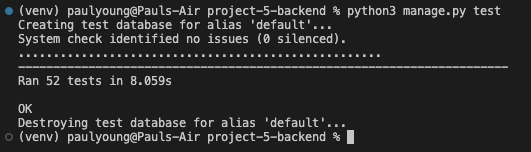
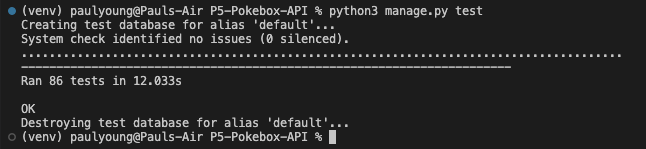
Document new automated tests

diff --git a/news/tests.py b/news/tests.py
@@ -116,7 +116,7 @@ class NewsDetailTests(APITestCase):
         response = self.client.get("/news/1")
         self.assertEqual(response.status_code, status.HTTP_200_OK)
 
-    def test_no_user_edit(self):
+    def test_no_user_cant_edit(self):
         response = self.client.patch("/news/1", {"body": "updated body"})
         self.assertEqual(response.status_code, status.HTTP_403_FORBIDDEN)
 
@@ -205,7 +205,7 @@ class AnnouncementDetailTests(APITestCase):
         response = self.client.get("/announcements/1")
         self.assertEqual(response.status_code, status.HTTP_200_OK)
 
-    def test_no_user_edit(self):
+    def test_no_user_cant_edit(self):
         response = self.client.patch(
             "/announcements/1", {"body": "updated announcements"})
         self.assertEqual(response.status_code, status.HTTP_403_FORBIDDEN)

diff --git a/TESTING.md b/TESTING.md
@@ -12,37 +12,43 @@
 
 All python files with code written by myself were run through the CI Python Linter. These are the results:
 
-| File                        | Result | Notes                      | Screenshot                                                                                                                         |
-| --------------------------- | ------ | -------------------------- | ---------------------------------------------------------------------------------------------------------------------------------- |
-| [comments/admin.py]()       | ✓      | All clear, no errors found | [Screenshot](https://raw.githubusercontent.com/paulio11/P5-Pokebox-API/main/documentation/images/testing-comments-admin.png)       |
-| [comments/models.py]()      | ✓      | All clear, no errors found | [Screenshot](https://raw.githubusercontent.com/paulio11/P5-Pokebox-API/main/documentation/images/testing-comments-models.png)      |
-| [comments/serializers.py]() | ✓      | All clear, no errors found | [Screenshot](https://raw.githubusercontent.com/paulio11/P5-Pokebox-API/main/documentation/images/testing-comments-serializers.png) |
-| [comments/tests.py]()       | ✓      | All clear, no errors found | [Screenshot](https://raw.githubusercontent.com/paulio11/P5-Pokebox-API/main/documentation/images/testing-comments-tests.png)       |
-| [comments/urls.py]()        | ✓      | All clear, no errors found | [Screenshot](https://raw.githubusercontent.com/paulio11/P5-Pokebox-API/main/documentation/images/testing-comments-urls.png)        |
-| [comments/views.py]()       | ✓      | All clear, no errors found | [Screenshot](https://raw.githubusercontent.com/paulio11/P5-Pokebox-API/main/documentation/images/testing-comments-views.png)       |
-| [likes/admin.py]()          | ✓      | All clear, no errors found | [Screenshot](https://raw.githubusercontent.com/paulio11/P5-Pokebox-API/main/documentation/images/testing-likes-admin.png)          |
-| [likes/models.py]()         | ✓      | All clear, no errors found | [Screenshot](https://raw.githubusercontent.com/paulio11/P5-Pokebox-API/main/documentation/images/testing-likes-models.png)         |
-| [likes/serializers.py]()    | ✓      | All clear, no errors found | [Screenshot](https://raw.githubusercontent.com/paulio11/P5-Pokebox-API/main/documentation/images/testing-likes-serializers.png)    |
-| [likes/tests.py]()          | ✓      | All clear, no errors found | [Screenshot](https://raw.githubusercontent.com/paulio11/P5-Pokebox-API/main/documentation/images/testing-likes-tests.png)          |
-| [likes/urls.py]()           | ✓      | All clear, no errors found | [Screenshot](https://raw.githubusercontent.com/paulio11/P5-Pokebox-API/main/documentation/images/testing-likes-urls.png)           |
-| [likes/views.py]()          | ✓      | All clear, no errors found | [Screenshot](https://raw.githubusercontent.com/paulio11/P5-Pokebox-API/main/documentation/images/testing-likes-views.png)          |
-| [pokebox/permissions.py]()  | ✓      | All clear, no errors found | [Screenshot](https://raw.githubusercontent.com/paulio11/P5-Pokebox-API/main/documentation/images/testing-pokebox-permissions.png)  |
-| [pokebox/serializers.py]()  | ✓      | All clear, no errors found | [Screenshot](https://raw.githubusercontent.com/paulio11/P5-Pokebox-API/main/documentation/images/testing-pokebox-serializers.png)  |
-| [pokebox/tests.py]()        | ✓      | All clear, no errors found | [Screenshot](https://raw.githubusercontent.com/paulio11/P5-Pokebox-API/main/documentation/images/testing-pokebox-tests.png)        |
-| [pokebox/urls.py]()         | ✓      | All clear, no errors found | [Screenshot](https://raw.githubusercontent.com/paulio11/P5-Pokebox-API/main/documentation/images/testing-pokebox-urls.png)         |
-| [pokebox/views.py]()        | ✓      | All clear, no errors found | [Screenshot](https://raw.githubusercontent.com/paulio11/P5-Pokebox-API/main/documentation/images/testing-pokebox-views.png)        |
-| [posts/admin.py]()          | ✓      | All clear, no errors found | [Screenshot](https://raw.githubusercontent.com/paulio11/P5-Pokebox-API/main/documentation/images/testing-posts-admin.png)          |
-| [posts/models.py]()         | ✓      | All clear, no errors found | [Screenshot](https://raw.githubusercontent.com/paulio11/P5-Pokebox-API/main/documentation/images/testing-posts-models.png)         |
-| [posts/serializers.py]()    | ✓      | All clear, no errors found | [Screenshot](https://raw.githubusercontent.com/paulio11/P5-Pokebox-API/main/documentation/images/testing-posts-serializers.png)    |
-| [posts/tests.py]()          | ✓      | All clear, no errors found | [Screenshot](https://raw.githubusercontent.com/paulio11/P5-Pokebox-API/main/documentation/images/testing-posts-tests.png)          |
-| [posts/urls.py]()           | ✓      | All clear, no errors found | [Screenshot](https://raw.githubusercontent.com/paulio11/P5-Pokebox-API/main/documentation/images/testing-posts-urls.png)           |
-| [posts/views.py]()          | ✓      | All clear, no errors found | [Screenshot](https://raw.githubusercontent.com/paulio11/P5-Pokebox-API/main/documentation/images/testing-posts-views.png)          |
-| [profiles/admin.py]()       | ✓      | All clear, no errors found | [Screenshot](https://raw.githubusercontent.com/paulio11/P5-Pokebox-API/main/documentation/images/testing-profiles-admin.png)       |
-| [profiles/models.py]()      | ✓      | All clear, no errors found | [Screenshot](https://raw.githubusercontent.com/paulio11/P5-Pokebox-API/main/documentation/images/testing-profiles-models.png)      |
-| [profiles/serializers.py]() | ✓      | All clear, no errors found | [Screenshot](https://raw.githubusercontent.com/paulio11/P5-Pokebox-API/main/documentation/images/testing-profiles-serializers.png) |
-| [profiles/tests.py]()       | ✓      | All clear, no errors found | [Screenshot](https://raw.githubusercontent.com/paulio11/P5-Pokebox-API/main/documentation/images/testing-profiles-tests.png)       |
-| [profiles/urls.py]()        | ✓      | All clear, no errors found | [Screenshot](https://raw.githubusercontent.com/paulio11/P5-Pokebox-API/main/documentation/images/testing-profiles-urls.png)        |
-| [profiles/views.py]()       | ✓      | All clear, no errors found | [Screenshot](https://raw.githubusercontent.com/paulio11/P5-Pokebox-API/main/documentation/images/testing-profiles-views.png)       |
+| File                                                                                                    | Result | Notes                      | Screenshot                                                                                                                         |
+| ------------------------------------------------------------------------------------------------------- | ------ | -------------------------- | ---------------------------------------------------------------------------------------------------------------------------------- |
+| [comments/admin.py](https://github.com/paulio11/P5-Pokebox-API/blob/main/comments/admin.py)             | ✓      | All clear, no errors found | [Screenshot](https://raw.githubusercontent.com/paulio11/P5-Pokebox-API/main/documentation/images/testing-comments-admin.png)       |
+| [comments/models.py](https://github.com/paulio11/P5-Pokebox-API/blob/main/comments/models.py)           | ✓      | All clear, no errors found | [Screenshot](https://raw.githubusercontent.com/paulio11/P5-Pokebox-API/main/documentation/images/testing-comments-models.png)      |
+| [comments/serializers.py](https://github.com/paulio11/P5-Pokebox-API/blob/main/comments/serializers.py) | ✓      | All clear, no errors found | [Screenshot](https://raw.githubusercontent.com/paulio11/P5-Pokebox-API/main/documentation/images/testing-comments-serializers.png) |
+| [comments/tests.py](https://github.com/paulio11/P5-Pokebox-API/blob/main/comments/tests.py)             | ✓      | All clear, no errors found | [Screenshot](https://raw.githubusercontent.com/paulio11/P5-Pokebox-API/main/documentation/images/testing-comments-tests.png)       |
+| [comments/urls.py](https://github.com/paulio11/P5-Pokebox-API/blob/main/comments/urls.py)               | ✓      | All clear, no errors found | [Screenshot](https://raw.githubusercontent.com/paulio11/P5-Pokebox-API/main/documentation/images/testing-comments-urls.png)        |
+| [comments/views.py](https://github.com/paulio11/P5-Pokebox-API/blob/main/comments/views.py)             | ✓      | All clear, no errors found | [Screenshot](https://raw.githubusercontent.com/paulio11/P5-Pokebox-API/main/documentation/images/testing-comments-views.png)       |
+| [likes/admin.py](https://github.com/paulio11/P5-Pokebox-API/blob/main/likes/admin.py)                   | ✓      | All clear, no errors found | [Screenshot](https://raw.githubusercontent.com/paulio11/P5-Pokebox-API/main/documentation/images/testing-likes-admin.png)          |
+| [likes/models.py](https://github.com/paulio11/P5-Pokebox-API/blob/main/likes/models.py)                 | ✓      | All clear, no errors found | [Screenshot](https://raw.githubusercontent.com/paulio11/P5-Pokebox-API/main/documentation/images/testing-likes-models.png)         |
+| [likes/serializers.py](https://github.com/paulio11/P5-Pokebox-API/blob/main/likes/serializers.py)       | ✓      | All clear, no errors found | [Screenshot](https://raw.githubusercontent.com/paulio11/P5-Pokebox-API/main/documentation/images/testing-likes-serializers.png)    |
+| [likes/tests.py](https://github.com/paulio11/P5-Pokebox-API/blob/main/likes/tests.py)                   | ✓      | All clear, no errors found | [Screenshot](https://raw.githubusercontent.com/paulio11/P5-Pokebox-API/main/documentation/images/testing-likes-tests.png)          |
+| [likes/urls.py](https://github.com/paulio11/P5-Pokebox-API/blob/main/likes/urls.py)                     | ✓      | All clear, no errors found | [Screenshot](https://raw.githubusercontent.com/paulio11/P5-Pokebox-API/main/documentation/images/testing-likes-urls.png)           |
+| [likes/views.py](https://github.com/paulio11/P5-Pokebox-API/blob/main/likes/views.py)                   | ✓      | All clear, no errors found | [Screenshot](https://raw.githubusercontent.com/paulio11/P5-Pokebox-API/main/documentation/images/testing-likes-views.png)          |
+| [news/admin.py](https://github.com/paulio11/P5-Pokebox-API/blob/main/news/admin.py)                     | ✓      | All clear, no errors found | [Screenshot](https://raw.githubusercontent.com/paulio11/P5-Pokebox-API/main/documentation/images/testing-news-admin.png)           |
+| [news/models.py](https://github.com/paulio11/P5-Pokebox-API/blob/main/news/models.py)                   | ✓      | All clear, no errors found | [Screenshot](https://raw.githubusercontent.com/paulio11/P5-Pokebox-API/main/documentation/images/testing-news-models.png)          |
+| [news/serializers.py](https://github.com/paulio11/P5-Pokebox-API/blob/main/news/serializers.py)         | ✓      | All clear, no errors found | [Screenshot](https://raw.githubusercontent.com/paulio11/P5-Pokebox-API/main/documentation/images/testing-news-serializers.png)     |
+| [news/tests.py](https://github.com/paulio11/P5-Pokebox-API/blob/main/news/tests.py)                     | ✓      | All clear, no errors found | [Screenshot](https://raw.githubusercontent.com/paulio11/P5-Pokebox-API/main/documentation/images/testing-news-tests.png)           |
+| [news/urls.py](https://github.com/paulio11/P5-Pokebox-API/blob/main/news/urls.py)                       | ✓      | All clear, no errors found | [Screenshot](https://raw.githubusercontent.com/paulio11/P5-Pokebox-API/main/documentation/images/testing-news-urls.png)            |
+| [news/views.py](https://github.com/paulio11/P5-Pokebox-API/blob/main/news/views.py)                     | ✓      | All clear, no errors found | [Screenshot](https://raw.githubusercontent.com/paulio11/P5-Pokebox-API/main/documentation/images/testing-news-views.png)           |
+| [pokebox/permissions.py](https://github.com/paulio11/P5-Pokebox-API/blob/main/pokebox/permissions.py)   | ✓      | All clear, no errors found | [Screenshot](https://raw.githubusercontent.com/paulio11/P5-Pokebox-API/main/documentation/images/testing-pokebox-permissions.png)  |
+| [pokebox/serializers.py](https://github.com/paulio11/P5-Pokebox-API/blob/main/pokebox/serializers.py)   | ✓      | All clear, no errors found | [Screenshot](https://raw.githubusercontent.com/paulio11/P5-Pokebox-API/main/documentation/images/testing-pokebox-serializers.png)  |
+| [pokebox/tests.py](https://github.com/paulio11/P5-Pokebox-API/blob/main/pokebox/tests.py)               | ✓      | All clear, no errors found | [Screenshot](https://raw.githubusercontent.com/paulio11/P5-Pokebox-API/main/documentation/images/testing-pokebox-tests.png)        |
+| [pokebox/urls.py](https://github.com/paulio11/P5-Pokebox-API/blob/main/pokebox/urls.py)                 | ✓      | All clear, no errors found | [Screenshot](https://raw.githubusercontent.com/paulio11/P5-Pokebox-API/main/documentation/images/testing-pokebox-urls.png)         |
+| [pokebox/views.py](https://github.com/paulio11/P5-Pokebox-API/blob/main/pokebox/views.py)               | ✓      | All clear, no errors found | [Screenshot](https://raw.githubusercontent.com/paulio11/P5-Pokebox-API/main/documentation/images/testing-pokebox-views.png)        |
+| [posts/admin.py](https://github.com/paulio11/P5-Pokebox-API/blob/main/posts/admin.py)                   | ✓      | All clear, no errors found | [Screenshot](https://raw.githubusercontent.com/paulio11/P5-Pokebox-API/main/documentation/images/testing-posts-admin.png)          |
+| [posts/models.py](https://github.com/paulio11/P5-Pokebox-API/blob/main/posts/models.py)                 | ✓      | All clear, no errors found | [Screenshot](https://raw.githubusercontent.com/paulio11/P5-Pokebox-API/main/documentation/images/testing-posts-models.png)         |
+| [posts/serializers.py](https://github.com/paulio11/P5-Pokebox-API/blob/main/posts/serializers.py)       | ✓      | All clear, no errors found | [Screenshot](https://raw.githubusercontent.com/paulio11/P5-Pokebox-API/main/documentation/images/testing-posts-serializers.png)    |
+| [posts/tests.py](https://github.com/paulio11/P5-Pokebox-API/blob/main/posts/tests.py)                   | ✓      | All clear, no errors found | [Screenshot](https://raw.githubusercontent.com/paulio11/P5-Pokebox-API/main/documentation/images/testing-posts-tests.png)          |
+| [posts/urls.py](https://github.com/paulio11/P5-Pokebox-API/blob/main/posts/urls.py)                     | ✓      | All clear, no errors found | [Screenshot](https://raw.githubusercontent.com/paulio11/P5-Pokebox-API/main/documentation/images/testing-posts-urls.png)           |
+| [posts/views.py](https://github.com/paulio11/P5-Pokebox-API/blob/main/posts/views.py)                   | ✓      | All clear, no errors found | [Screenshot](https://raw.githubusercontent.com/paulio11/P5-Pokebox-API/main/documentation/images/testing-posts-views.png)          |
+| [profiles/admin.py](https://github.com/paulio11/P5-Pokebox-API/blob/main/profiles/admin.py)             | ✓      | All clear, no errors found | [Screenshot](https://raw.githubusercontent.com/paulio11/P5-Pokebox-API/main/documentation/images/testing-profiles-admin.png)       |
+| [profiles/models.py](https://github.com/paulio11/P5-Pokebox-API/blob/main/profiles/models.py)           | ✓      | All clear, no errors found | [Screenshot](https://raw.githubusercontent.com/paulio11/P5-Pokebox-API/main/documentation/images/testing-profiles-models.png)      |
+| [profiles/serializers.py](https://github.com/paulio11/P5-Pokebox-API/blob/main/profiles/serializers.py) | ✓      | All clear, no errors found | [Screenshot](https://raw.githubusercontent.com/paulio11/P5-Pokebox-API/main/documentation/images/testing-profiles-serializers.png) |
+| [profiles/tests.py](https://github.com/paulio11/P5-Pokebox-API/blob/main/profiles/tests.py)             | ✓      | All clear, no errors found | [Screenshot](https://raw.githubusercontent.com/paulio11/P5-Pokebox-API/main/documentation/images/testing-profiles-tests.png)       |
+| [profiles/urls.py](https://github.com/paulio11/P5-Pokebox-API/blob/main/profiles/urls.py)               | ✓      | All clear, no errors found | [Screenshot](https://raw.githubusercontent.com/paulio11/P5-Pokebox-API/main/documentation/images/testing-profiles-urls.png)        |
+| [profiles/views.py](https://github.com/paulio11/P5-Pokebox-API/blob/main/profiles/views.py)             | ✓      | All clear, no errors found | [Screenshot](https://raw.githubusercontent.com/paulio11/P5-Pokebox-API/main/documentation/images/testing-profiles-views.png)       |
 
 [Back to top 🔺](#testing)
 
@@ -50,7 +56,7 @@ All python files with code written by myself were run through the CI Python Lint
 
 My goal for automated testing was to reach 100% coverage using the Python library [Coverage](https://pypi.org/project/coverage/). 100% coverage was achieved excluding `manage.py` and `settings.py` as this is built in django code. I further developed each test to cover things usc has testing for login requirements and changes to the database. **See each test file for the full list of things tested for**.
 
-**Note** - due to my profile model having an ArrayField which is incompatible with the default testing database engine (sqlite3), I had to temporarily remove all references to this field in order to make the tests run. The ArrayField was manually tested instead.
+**Note** - due to my profile model having an `ArrayField` which is incompatible with the default testing database engine (sqlite3), I had to temporarily remove all references to this field and `col_size` (in profiles/models.py, profiles/serializers.py and profiles/views.py) in order to make the tests run. The ArrayField was manually tested instead.
 
 ### Terminal Test Output
 
@@ -102,14 +108,61 @@ My goal for automated testing was to reach 100% coverage using the Python librar
 | **LikeSerializerTests**                  |
 | test_create_duplicate_like               | User can't create duplicate likes, returns a 400 response | ✓      |
 
+### [news.tests.py](https://github.com/paulio11/P5-Pokebox-API/blob/main/news/tests.py)
+
+| Name                             | Testing For                                                                                                 | Result |
+| -------------------------------- | ----------------------------------------------------------------------------------------------------------- | ------ |
+| **NewsModelTests**               |
+| test_str_method                  | A created news item is represented by the correct string                                                    | ✓      |
+| **AnnouncementModelTests**       |
+| test_str_method                  | A created announcement is represented by the correct string                                                 | ✓      |
+| **NewsFilterTests**              |
+| test_filter_off                  | Response returns all news objects                                                                           | ✓      |
+| test_category_other              | Response returns just objects with the category Other                                                       | ✓      |
+| test_category_anime              | Response returns just objects with the category Anime                                                       | ✓      |
+| test_category_TCG                | Response returns just objects with the category TCG                                                         | ✓      |
+| test_category_games              | Response returns just objects with the category Games                                                       | ✓      |
+| test_id_filter                   | Response returns just the news item requested in the url parameter                                          | ✓      |
+| **NewsListTests**                |
+| test_get_news_list               | Endpoint returns successfully with correct data                                                             | ✓      |
+| test_perform_create_without_user | Attempting to create a news item logged out fails and returns response 403                                  | ✓      |
+| test_perform_create_with_user    | Attempting to create a news item when logged in as a normal user fails and returns response 403             | ✓      |
+| test_perform_create_with_admin   | Attempting to create a news item when logged in as an admin is successful and returns response 201          | ✓      |
+| **NewsDetailTests**              |
+| test_invalid_news_id             | Invalid news ID parameter returns a 404 response                                                            | ✓      |
+| test_valid_news_id               | Valid post ID parameter returns a 200 response                                                              | ✓      |
+| test_no_user_cant_edit           | Editing a news item when logged out returns a 403 response and fails                                        | ✓      |
+| test_user_cant_edit              | Editing a news item as a normal user returns a 403 response and fails                                       | ✓      |
+| test_admin_can_edit              | Editing a news item as an admin user returns a 200 response and successfully updates                        | ✓      |
+| test_no_user_cant_delete         | Deleting a news item when logged out returns a 403 response and fails                                       | ✓      |
+| test_user_cant_delete            | Deleting a news item as a normal user returns a 403 response and fails                                      | ✓      |
+| test_admin_can_delete            | Deleting a news item as an admin user returns a 200 response and successfully deletes                       | ✓      |
+| **AnnouncementListTests**        |
+| test_get_announcement_list       | Endpoint returns successfully with correct data                                                             | ✓      |
+| test_perform_create_without_user | Attempting to create an announcement logged out fails and returns response 403                              | ✓      |
+| test_perform_create_with_user    | Attempting to create an announcement when logged in as a normal user fails and returns response 403         | ✓      |
+| test_perform_create_with_admin   | Attempting to create an announcement when logged in as an admin user is successful and returns response 201 | ✓      |
+| **AnnouncementDetailTests**      |
+| test_invalid_announcement_id     | Invalid announcement ID parameter returns a 404 response                                                    | ✓      |
+| test_valid_announcement_id       | Valid announcement ID parameter resturns a 200 response                                                     | ✓      |
+| test_no_user_cant_edit           | Editing an announcement when logged out returns a 403 response and fails                                    | ✓      |
+| test_user_cant_edit              | Editing an announcement as a normal user returns a 403 response and fails                                   | ✓      |
+| test_admin_can_edit              | Editing an announcement as an admin user returns a 200 response and successfully updates                    | ✓      |
+| test_no_user_cant_delete         | Deleting an announcement when logged out returns a 403 response and fails                                   | ✓      |
+| test_user_cant_delete            | Deleting an announcement as a normal user returns a 403 response and fails                                  | ✓      |
+| test_admin_can_delete            | Deleting an announcement as an admin user returns a 200 response and successfully deletes                   | ✓      |
+
 ### [pokebox.tests.py](https://github.com/paulio11/P5-Pokebox-API/blob/main/pokebox/tests.py)
 
-| Name                 | Testing For                                                   | Result |
-| -------------------- | ------------------------------------------------------------- | ------ |
-| **RootRouteTests**   |
-| test_root_route      | Root route shows message                                      | ✓      |
-| **LogoutRouteTests** |
-| test_logout_route    | Correct response and cookies and their attributes are cleared | ✓      |
+| Name                    | Testing For                                                   | Result |
+| ----------------------- | ------------------------------------------------------------- | ------ |
+| **RootRouteTests**      |
+| test_root_route         | Root route shows message                                      | ✓      |
+| **LogoutRouteTests**    |
+| test_logout_route       | Correct response and cookies and their attributes are cleared | ✓      |
+| **UserSerializerTests** |
+| test_user_is_not_staff  | The serialized data for user has the value False for is_staff | ✓      |
+| test_admin_is_staff     | The serialized data for admin has the value True for is_staff | ✓      |
 
 ### [posts.tests.py](https://github.com/paulio11/P5-Pokebox-API/blob/main/posts/tests.py)
 
@@ -160,7 +213,7 @@ My goal for automated testing was to reach 100% coverage using the Python librar
 
 ## Manual Testing
 
-In addition to automated testing I carried out the following manual tests for aspects not covered with automated testing:
+In addition to automated testing I carried out the manual tests below for aspects not covered with automated testing, note this is also covered in manual front-end testing.
 
 ### Profiles
 
